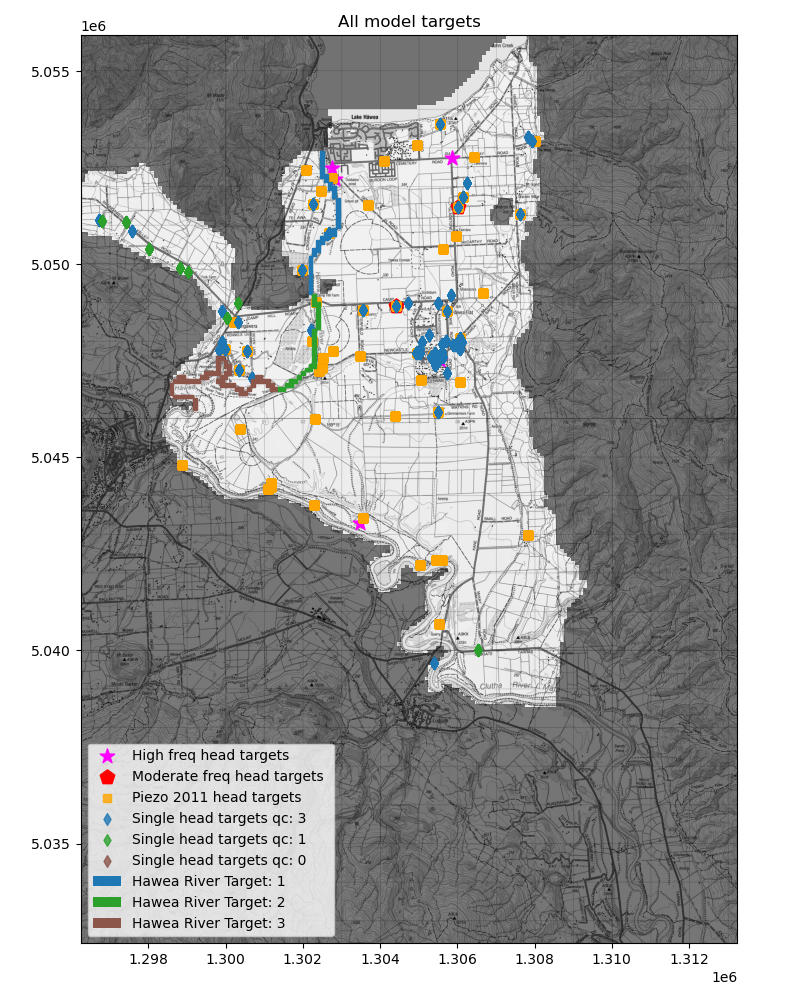
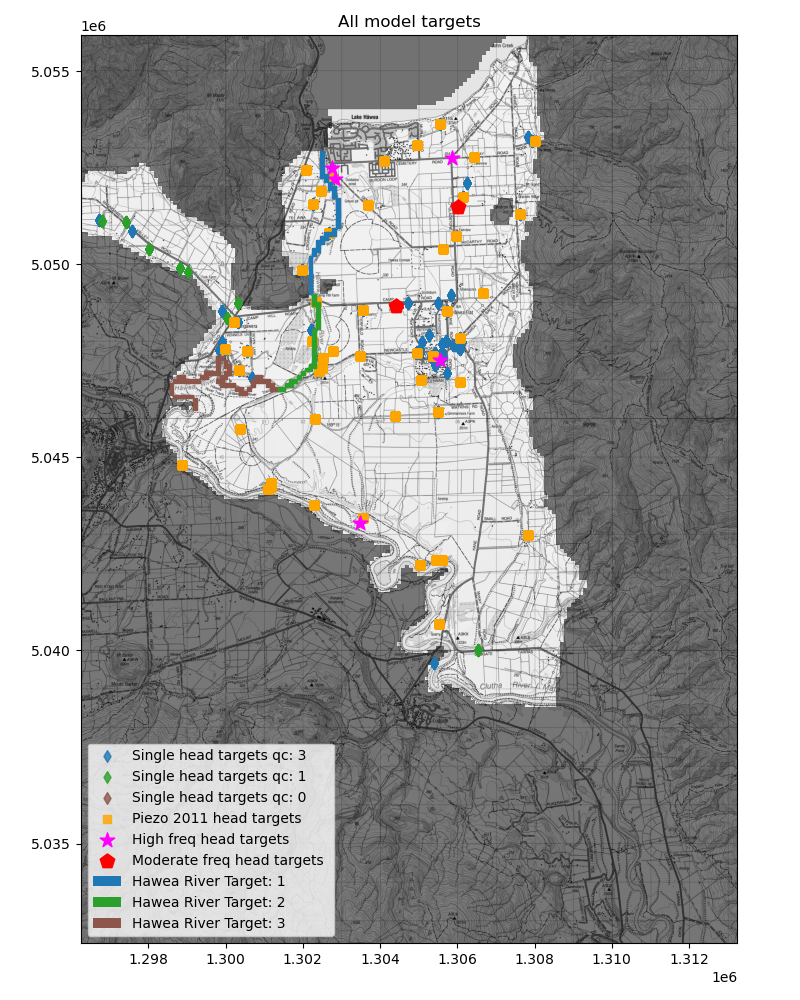
first draft of target readme

diff --git a/writeup_support.py b/writeup_support.py
@@ -217,7 +217,8 @@ def near_river():
 
 
 def plot_all_targets():
-    from optimisation.pre_optimisation_overview import plot_head_targets, get_riv_target_locs, get_hawea_gain_loss_targets
+    from optimisation.pre_optimisation_overview import plot_head_targets, get_riv_target_locs, \
+        get_hawea_gain_loss_targets
     rt = get_hawea_gain_loss_targets()
     # river targets
     riv_loc = get_riv_target_locs()
@@ -232,8 +233,8 @@ def plot_all_targets():
     handles, labels = ax.get_legend_handles_labels()
 
     fig, ax, handles1, labels1 = smt.plot.plt_discrete_matrix(use_riv_targets, ax=ax, colors=zone_colors,
-                                                            names=base_names,
-                                                            return_handles_labels=True)
+                                                              names=base_names,
+                                                              return_handles_labels=True)
     handles.extend(handles1)
     labels.extend(labels1)
     ax.set_title('All model targets')
@@ -243,6 +244,53 @@ def plot_all_targets():
     plt.show()
 
 
+def wetlands():
+    from targets_and_sensitive_sites.senstive_sites import get_wetlands
+    wet = get_wetlands()
+    outdata = smt.get_model_zeros() * np.nan
+    for k, v in wet.items():
+        outdata[v] = k
+    fig, ax  = smt.plot.plt_discrete_matrix(outdata,
+                                 names={k: f'Wetland {n}' for k, n in
+                                        zip(wet.keys(), ['Butterfield Wetland', 'Campbells Reserve Pond Margins'])},
+                                 colors={k: c for k, c in zip(wet.keys(), smt.plot.get_colors(wet.keys()))},
+                                 title='Wetlands', base_map=True, no_flow_layer=0, alpha=1, legend_loc='lower left',
+                                 )
+    fig.tight_layout()
+    fig.savefig(proj_root.joinpath('support_figures', 'model_wetlands.png'))
+    plt.show()
+    pass
+
+import pandas as pd
+def plot_regular():
+    from targets_and_sensitive_sites.head_targets import base_regular_groupnames, plot_hds_regular_locator
+    hds_groups = ['h_piezo', 'h_single_3', 'h_single_1', 'regular']
+    hds_colors = smt.plot.get_colors(hds_groups)
+    reg_colormap = 'tab10'
+    from project_base import proj_root
+    f = proj_root.joinpath('optimisation/optimisation_results/3d_v1d/observations.dat')
+    hds_obs = pd.read_csv(f, sep='\t')
+    hds_obs.rename(columns={e: e.lower() for e in hds_obs.keys()}, inplace=True)
+    mapper = {'h_piezo': 'h_piezo',
+              'h_single_3': 'h_single_3',
+              'h_single_1': 'h_single_1'}
+    mapper.update({k: 'regular' for k in base_regular_groupnames})
+    hds_obs.loc[:, 'group'] = hds_obs.loc[:, 'group'].replace(mapper)
+    hds_obs.loc[:, 'well_name'] = [f'{"_".join(e.split("_")[:-1])}' for e in hds_obs.loc[:, 'name']]
+    regular_hds = hds_obs.loc[hds_obs.loc[:, 'group'] == 'regular']
+    fig, ax =plt.subplots(figsize=smt.default_figsize)
+
+    regular_wells = sorted(regular_hds.well_name.unique())
+    regular_colors = smt.plot.get_colors(regular_wells, reg_colormap)
+    colors_dict = {k: regular_colors[i] for i, k in enumerate(regular_wells)}
+    plot_hds_regular_locator(ax, colors_dict, truncate_to_active=True, label=True)
+    fig.tight_layout()
+    fig.savefig(proj_root.joinpath('support_figures', 'model_regular_targets.png'))
+    plt.show()
+
+
+
+
 if __name__ == '__main__':
     # model_2d_structure_plots()
     # boundary_condition_figure()
@@ -250,5 +298,7 @@ if __name__ == '__main__':
     # well_locations()
     # large_hill_inflows()
     # near_river()
-    plot_all_targets()
+    # plot_all_targets()
+    # wetlands()
+    # plot_regular()
     pass

diff --git a/targets_and_sensitive_sites/head_targets.py b/targets_and_sensitive_sites/head_targets.py
@@ -5,6 +5,8 @@ on: 15/08/22
 import pickle
 import time
 import warnings
+
+import matplotlib.pyplot as plt
 from matplotlib.colors import ListedColormap
 from matplotlib.patches import Patch
 import numpy as np
@@ -167,6 +169,21 @@ def plot_head_targets(how='all'):
         all_wells = all_wells.loc[all_wells.ibound > 0]
         qcs = list(reversed(sorted(all_wells.loc[:, 'quality_code'].unique())))
 
+
+
+        colors = get_colors(qcs)
+        for qc, c in zip(qcs, colors):
+            temp = single_targets.loc[single_targets.quality_code == qc]
+            ax.scatter(temp.nztmx, temp.nztmy, color=c, label=f'Single head targets qc: {qc}', marker='d', alpha=alpha)
+
+        # add scott piezo locs
+        piezo = get_2011_piezo_survey(recalc=True)
+        ax.scatter(piezo.nztmx, piezo.nztmy, color='orange', marker='s', alpha=alpha, label='Piezo 2011 head targets')
+
+
+        ax.set_title('Head targets included in the model')
+        ax.legend(loc='lower left')
+
         marker_size = 120
         # add high frequency
         t = get_high_freq_head_targets(None, None)
@@ -177,19 +194,6 @@ def plot_head_targets(how='all'):
         t = get_low_freq_head_targets(None, None)
         wells = all_wells.loc[t.keys()]
         ax.scatter(wells.nztmx, wells.nztmy, color='r', marker='p', label='Moderate freq head targets ', s=marker_size)
-
-        # add scott piezo locs
-        piezo = get_2011_piezo_survey(recalc=True)
-        ax.scatter(piezo.nztmx, piezo.nztmy, color='orange', marker='s', alpha=alpha, label='Piezo 2011 head targets')
-
-
-        colors = get_colors(qcs)
-        for qc, c in zip(qcs, colors):
-            temp = single_targets.loc[single_targets.quality_code == qc]
-            ax.scatter(temp.nztmx, temp.nztmy, color=c, label=f'Single head targets qc: {qc}', marker='d', alpha=alpha)
-
-        ax.set_title('Head targets included in the model')
-        ax.legend(loc='lower left')
 
     else:
         raise NotImplementedError
@@ -316,14 +320,27 @@ def get_all_hds_targets(tdis, recalc=False):
     return all_head_targets
 
 
-def plot_hds_regular_locator(ax, colors_dict, truncate_to_active=True):
+def plot_hds_regular_locator(ax, colors_dict, truncate_to_active=True, label=False):
     all_wells = get_all_wells()
     smt.plot.plt_basemap(ax=ax, no_flow_layer=0)
+    mapper = {
+        'g40_0041': 'h_hf_riv: ',
+        'g40_0416': 'h_hf_riv: ',
 
+        'g40_0366':'h_hf: ',
+        'g40_0367':'h_hf: ',
+        'g40_0415':'h_hf: ',
+
+        'g40_0120': 'h_lf: ',
+        'g40_0129': 'h_lf: ',
+    }
     for k, c in colors_dict.items():
         k = k.replace('h_', '')
         x, y = all_wells.loc[k, ['nztmx', 'nztmy']]
-        ax.scatter(x, y, color=c, label=k, s=80)
+        xtra = ''
+        if label:
+            xtra = mapper[k]
+        ax.scatter(x, y, color=c, label=xtra+k, s=80)
     if truncate_to_active:
         xs, ys = smt.get_model_x_y()
         ibound = smt.get_no_flow(0)
@@ -383,7 +400,7 @@ def get_annual_mean_head_targets(hds_df):
 
 if __name__ == '__main__':
     from optimisation.optimisation_period import tdis
-
+    t = get_high_freq_head_targets(None, None)
     get_all_hds_targets(tdis, recalc=True)
     raise NotImplementedError
     print('piezo')

diff --git a/optimisation/pre_optimisation_overview.py b/optimisation/pre_optimisation_overview.py
@@ -752,7 +752,6 @@ if __name__ == '__main__':
     fig, ax = plot_head_targets('incl')
     fig.tight_layout()
     fig.savefig(proj_root.joinpath('optimisation/pre_optimisation_plots_png/targets/spatial_head_targets.png'))
-
     base = proj_root.joinpath('optimisation')
     save = True
     for extension in ['.png']:

diff --git a/targets_and_sensitive_sites/README.rst b/targets_and_sensitive_sites/README.rst
@@ -20,9 +20,6 @@ Index
 =====
 .. contents:: Table of Contents
 
-Managing targets outside of the optimisation period
-====================================================
-# todo
 
 Groundwater head targets
 ========================
@@ -34,17 +31,56 @@ Groundwater head targets
 
    Figure: Spatial distribution of groundwater head targets
 
-# todo
+
 High and moderate frequency targets
 ----------------------
-# todo
+High and moderate frequency targets were provided by Otago Regional Council (ORC) and included the following wells
+note that in the code these targets are often referred to as "regular" targets:
+
++-----------+------------+-----------------------------------------------------------------------------------------+
+| Well name | Group      |  Description                                                                            |
++===========+============+=========================================================================================+
+| G40/0041  | h_hf_riv   |  High frequency loggers installed after 2014, near Hawea river                          |
++-----------+------------+-----------------------------------------------------------------------------------------+
+| G40/0416  | h_hf_riv   |  High frequency loggers installed after 2014, near Hawea river                          |
++-----------+------------+-----------------------------------------------------------------------------------------+
+| G40/0366  | h_hf       |  High frequency loggers installed after 2014                                            |
++-----------+------------+-----------------------------------------------------------------------------------------+
+| G40/0367  | h_hf       |  High frequency loggers installed after 2014                                            |
++-----------+------------+-----------------------------------------------------------------------------------------+
+| G40/0415  | h_hf       |  High frequency loggers installed after 2014                                            |
++-----------+------------+-----------------------------------------------------------------------------------------+
+| G40/0120  | h_lf       |  NGMP wells, which have a longer record than the others, but less frequent sampling     |
++-----------+------------+-----------------------------------------------------------------------------------------+
+| G40/0129  | h_lf       |  NGMP wells, which have a longer record than the others, but less frequent sampling     |
++-----------+------------+-----------------------------------------------------------------------------------------+
+
+.. figure:: ../support_figures/model_regular_targets.png
+   :height: 650 px
+   :align: center
+
+.. class:: centered
+   Figure: Regular groundwater head targets
 
 Targets from the 2011 Piezometric Survey
 ------------------------------------------
-# todo
+
+The 2011 piezometric survey was conducted on 21-sept-2011 and is detailed in Wilson et al. (2012). The survey
+provides a significant spatial distribution of targets across the model domain and are highly reliable. These targets
+make up much of the information used to constrain the model in the optimisation away from the high frequency targets.
+
 Single targets
 -----------------
-# todo
+Often when drillers are installing wells, they will take a single, static water level measurement at the time of installation.
+This information is less reliable than a Piezometric survey, but it is still useful to constrain areas of the model
+where there is little other information. There is often missing information for these records, as such created 4 quality
+categories for these targets:
+
+- 0: no date data for the depth to water field -- Not included in the model
+- 1: no elevation data present (read from DEM) -- Only included in the model in the Sandy Point and Maungawera Valley,
+     where there is a relative dearth of other information.
+- 2: no depth data for the well -- No wells matched this category
+- 3: as good as it gets -- included in all parts of the model
 
 
 River gain and loss targets
@@ -69,7 +105,57 @@ model and are therefore used in the optimisation.
 
 Expert Judgment
 ---------------
-# todo
+In addition to the measured datasets described above, the expert judgment of the Hawea River is that it is largely a
+gaining reach from the Hawea Dam to Camp Hill.  After Camp Hill the river loses a significant amount of water as the
+river turns west against the high terrace. The lower reaches are gaining and losing until it reaches the Clutha River.
+The Clutha river is exclusively thought of as a losing reach.  This expert judgement is in agreement with the measured
+data and while it is not explicitly included within the model optimisation targets, it was used to qualitatively assess
+the performance of the model.
+
+Managing targets outside of the optimisation period
+====================================================
+Many of the targets used in the model fall outside of the optimisation period. If we only included infromation from
+within the optimisation period we would be left with only the "regular" high and moderate frequency targets -- that is
+7 spatial targets across the model domain and no targets in the Maungawera valley. Therefore we needed to apply the
+targets out of the optimisation period to the most appropriate time within the optimisation period. This is done by:
+
+#. calculating the last 12 months normalised average recharge and hillslope inflow for each month in the
+   scenario period (1980-07-18 to 2020-12-01).  Any targets outside of this period were excluded from the model.
+   the choice to use the last 12 months was based off of the annual cycle, and confirmed by calculating the predictive
+   power of multiple different time periods (e.g. 6 months, etc.). The annual data provided the best predictive power.
+#. The target dates outside of the optimisation period were then assigned to the month within the optimisation period
+   that was the closest (cartesian distance of the normalised 12 previous month recharge and hillslope inflows)
+   to the target date and had the closest normalised recharge and hillslope.  targets were allowed to shift up to 1 month
+   (e.g. a target measured in September could was assigned to the closest August, September or October month). This
+   was done to maintain any seasonal effects while allowing a larger potential pool of matches.
+#. Targets which were temporally shifted in this way were assigned to all stress periods in the month.
+
+The following figures show the results of this process. Figures of each target month
+`are available here <optimisation/pre_optimisation_plots_png/indicative_target_times>`_
+
+.. figure:: ../optimisation/pre_optimisation_plots_png/indicative_target_times/all_targ_shifts.png
+   :height: 650 px
+   :align: center
+
+.. class:: centered
+
+   Figure: Target period shifts for all targets
+
+.. figure:: ../optimisation/pre_optimisation_plots_png/indicative_target_times/9_targ_shifts.png
+    :height: 650 px
+    :align: center
+
+.. class:: centered
+
+   Figure: Target period shifts for the targets measured in September, recall that the 2011-9 targets include the piezometric study
+
+.. figure:: ../optimisation/pre_optimisation_plots_png/indicative_target_times/target_time_correlations_Pp score.png
+    :height: 650 px
+    :align: center
+
+.. class:: centered
+
+   Figure: The predictive power score of different monthly aggregations of the normalised recharge and hillslope inflows
 
 Temporal distribution of targets
 ================================
@@ -95,11 +181,56 @@ period.
 
 Model Objective Function and target weighting
 =============================================
-#todo
+
+The objective function is at a high level simply the weighted sum of squared errors between the modelled values and
+target. The weighting strategy is often adjusted during the course of the model optimisation (for more info
+on the final weighting scheme see the `optimisation readme <optimisation/README.rst>`_; however the inital strategy
+for the weighting of the targets is described below.
+
+#. We developed a hierarchy of target groups as follows:
+    #. **h_hf:** High frequency groundwater head targets: these are high quality data with a high temporal resolution and a
+       moderate spatial resolution. They are by far the most important targets within the model
+    #. **h_hf_riv:** High frequency groundwater head targets near the Hawea river: these are high quality data with a
+       high temporal resolution, but they are adjacent to the Hawea river so are more susceptible to structural bias
+       based on our implmentation of the hawea river in the model.
+    #. **h_lf:** Moderate frequency groundwater head targets:  these targets provide two additional sites with a number of samples
+       across the optimisation period.
+    #. **h_piezo:** Scott 2011 piezo survey: these targets provide a significant spatial distribution of targets across the model
+       domain and are highly reliable; however they fall outside of the optimisation period and therefore likely have
+       some bias.
+    #. **h_single_1:** Single targets Q3: generally lower quality targets but they provide some additional data.
+    #. **h_single_3:** Single Targets Q1: generally very low quality targets, but in areas they are the only data available.
+    #. **riv:** River targets: useful and the only way to constrain the river gain/loss, but they are not very reliable
+       (as described above).
+    #. There were two additional target groups that were never weighted:
+           #. **rwh_hf:** ISO weekly mean for each high frequency target (e.g. for the "typical" water year)
+           #. **rwh_hf_riv:** ISO weekly mean for each high frequency near river target (e.g. for the "typical" water year)
+#. The initial weights were set so that all targets weights were propotional to their value,
+   that is that the expected value * weight = 1
+#. The weights were then adjusted so that single_3 had twice the impact relative to single_1
+#. The weights were then normalised so that the total impact of each group was equal regardless of the number of targets
+   within the group.
+#. the groups were then manually weighted with a multiplier to adjust the relative impact of each group in accordance
+   with the hierarchy described above.  This weight factor was adjusted during the course of the optimisation. For more
+   info on the final weighting scheme see the `optimisation readme <optimisation/README.rst>`_.
+
+Note that when a target occurred in a dry model cell the modelled value was set to the head value in the cell in the layer
+below, or if that cell was also dry, the head value in the cell below that. This was done to ensure that the modelled
+values did not get impacted by the dry cell flag.
 
 Other sensitive sites
 ======================
-# todo
+
+There are two sensitive wetlands within the model domain -- Butterfield Reserve and Campbell's Reserve. These wetlands
+were not included within the model as boundary conditions, but they are indexed here.
+
+.. figure:: ../support_figures/model_wetlands.png
+   :height: 650 px
+   :align: center
+
+.. class:: centered
+
+   Figure: Wetlands in the Hawea model domain
 
 References
 ===========

diff --git a/model_build/README.rst b/model_build/README.rst
@@ -94,6 +94,10 @@ of boundary conditions we defined two time periods for the model:
     - the period where we have reasonable data available across boundary conditions, but minimal observations (targets)
     - details on defining the scenario period are in the `scenario readme <../Scenarios/README.rst>`_
 
+Model Starting heads
+====================
+# todo
+
 Model Structure
 ===============
 
